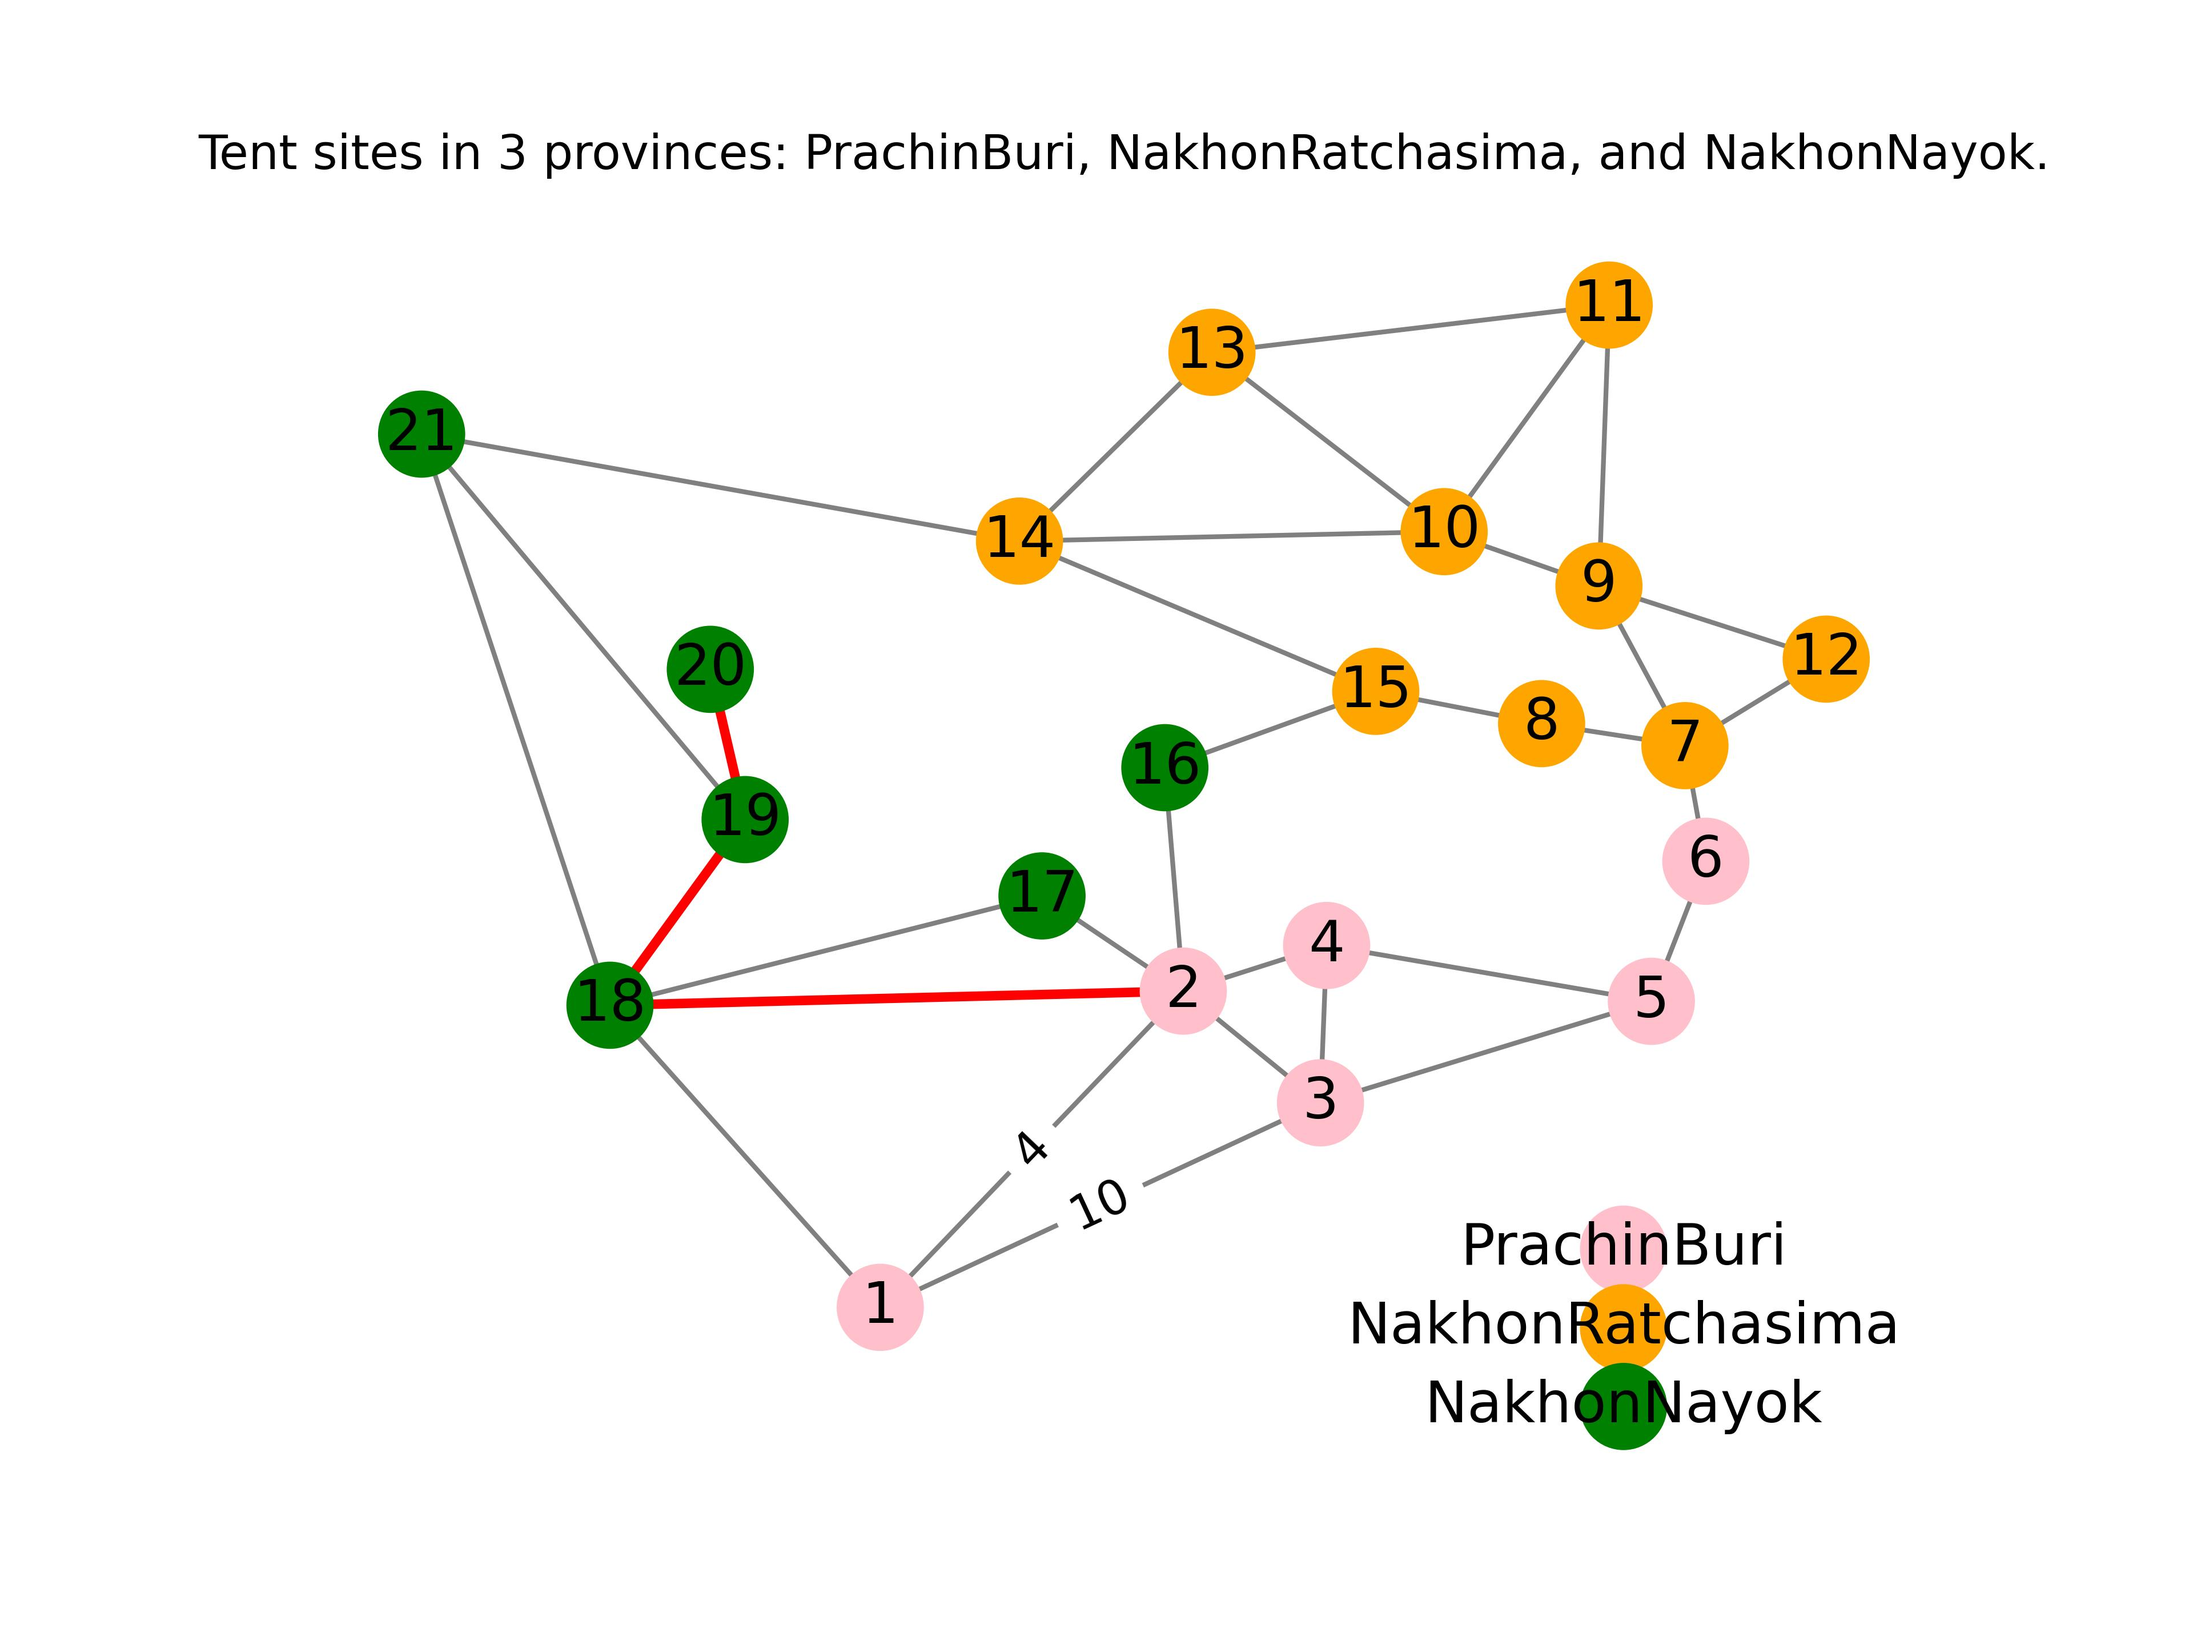
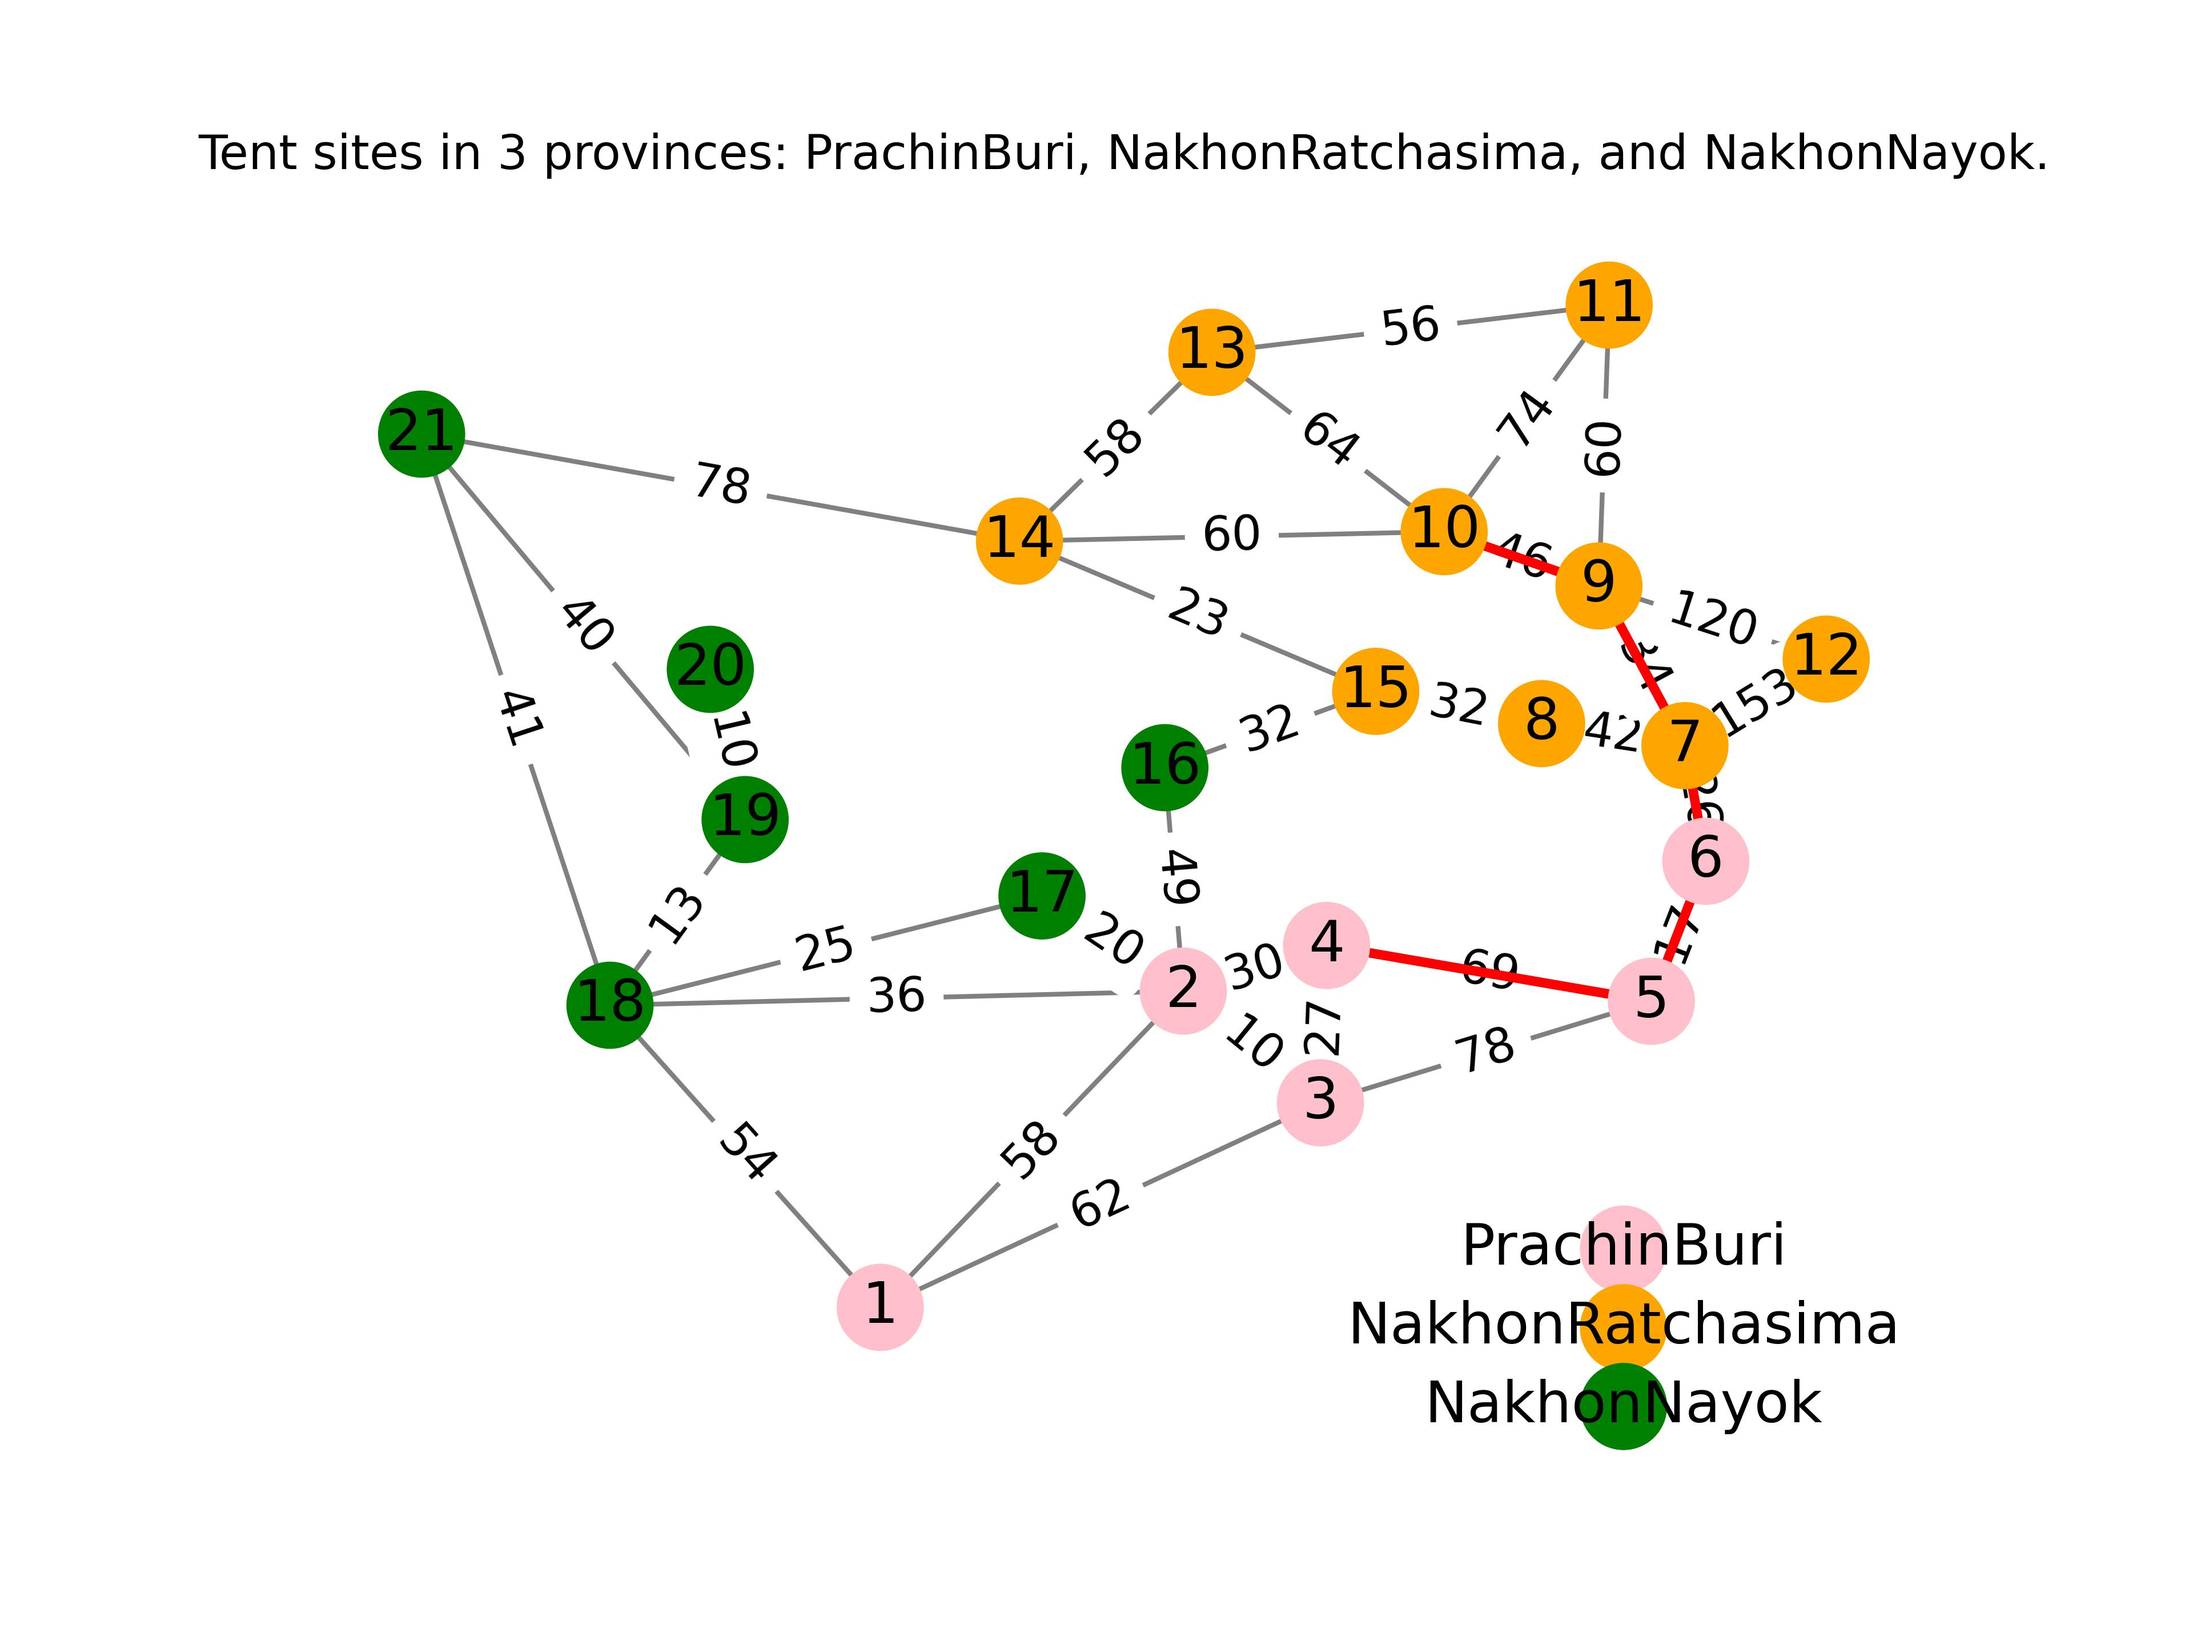
update

diff --git a/map.py b/map.py
@@ -34,14 +34,14 @@ G.add_node('NakhonRatchasima')
 G.add_node('NakhonNayok')
 
 # เพิ่ม edge ลงในกราฟ
-G.add_edge(1, 2, weight = 4)#, weight=4
-G.add_edge(1, 3, weight = 10)
-G.add_edge(1, 18)
+G.add_edge(1, 2, weight = 58)#, weight=4
+G.add_edge(1, 3, weight = 62)
+G.add_edge(1, 18, weight = 54)
 
 G.add_edge(2, 1)
-G.add_edge(2, 3)
+G.add_edge(2, 3, weight = 10)
 G.add_edge(2, 4)
-G.add_edge(2, 16)
+G.add_edge(2, 16, weight = 49)
 G.add_edge(2, 17)
 G.add_edge(2, 18)
 
@@ -50,74 +50,74 @@ G.add_edge(3, 2)
 G.add_edge(3, 4)
 G.add_edge(3, 5)
 
-G.add_edge(4, 2)
-G.add_edge(4, 3)
+G.add_edge(4, 2, weight = 30)
+G.add_edge(4, 3, weight = 27)
 G.add_edge(4, 5)
 
-G.add_edge(5, 3)
-G.add_edge(5, 4)
-G.add_edge(5, 6)
+G.add_edge(5, 3, weight = 78)
+G.add_edge(5, 4, weight = 69)
+G.add_edge(5, 6, weight = 17)
 
-G.add_edge(6, 7)
+G.add_edge(6, 7, weight = 26)
 
 G.add_edge(7, 8)
 G.add_edge(7, 9)
 G.add_edge(7, 12)
 
-G.add_edge(8, 7)
+G.add_edge(8, 7, weight = 42)
 G.add_edge(8, 15)
 
-G.add_edge(9, 7)
+G.add_edge(9, 7, weight = 34)
 G.add_edge(9, 10)
 G.add_edge(9, 11)
 G.add_edge(9, 12)
 
-G.add_edge(10, 9)
+G.add_edge(10, 9, weight = 46)
 G.add_edge(10, 11)
 G.add_edge(10, 13)
 G.add_edge(10, 14)
 
-G.add_edge(11, 9)
-G.add_edge(11, 10)
+G.add_edge(11, 9, weight = 60)
+G.add_edge(11, 10, weight = 74)
 G.add_edge(11, 13)
 
-G.add_edge(12, 7)
-G.add_edge(12, 9)
+G.add_edge(12, 7, weight = 153)
+G.add_edge(12, 9, weight = 120)
 
-G.add_edge(13, 10)
-G.add_edge(13, 11)
-G.add_edge(13, 14)
+G.add_edge(13, 10, weight = 64)
+G.add_edge(13, 11, weight = 56)
+G.add_edge(13, 14, weight = 58)
 
-G.add_edge(14, 10)
-G.add_edge(14, 13)
+G.add_edge(14, 10, weight = 60)
+G.add_edge(14, 13, weight = 58)
 G.add_edge(14, 15)
 G.add_edge(14, 21)
 
-G.add_edge(15, 8)
-G.add_edge(15, 14)
+G.add_edge(15, 8, weight = 32)
+G.add_edge(15, 14, weight = 23)
 G.add_edge(15, 16)
 
 G.add_edge(16, 2)
-G.add_edge(16, 15)
+G.add_edge(16, 15, weight = 32)
 
-G.add_edge(17, 2)
+G.add_edge(17, 2, weight = 20)
 G.add_edge(17, 18)
 
 G.add_edge(18, 1)
-G.add_edge(18, 2)
-G.add_edge(18, 17)
+G.add_edge(18, 2, weight = 36)
+G.add_edge(18, 17, weight = 25)
 G.add_edge(18, 19)
 G.add_edge(18, 21)
 
-G.add_edge(19, 18)
+G.add_edge(19, 18, weight = 13)
 G.add_edge(19, 20)
 G.add_edge(19, 21)
 
-G.add_edge(20, 19)
+G.add_edge(20, 19, weight = 10)
 
-G.add_edge(21, 14)
-G.add_edge(21, 18)
-G.add_edge(21, 19)
+G.add_edge(21, 14, weight = 78)
+G.add_edge(21, 18, weight = 41)
+G.add_edge(21, 19, weight = 40)
 
 # กำหนดสีของโหนด
 color_map = {1:'pink',
@@ -167,7 +167,7 @@ pos = {1: (-3.18, -3.74),
         9: (0.33, 5.43),
          10: (-0.426, 6.12),
           11: (0.38, 9),
-           12: (1.44, 4.50),
+           12: (1.8, 4.50),
             13: (-1.56, 8.4),
              14: (-2.5, 6),
               15: (-0.76, 4.09),
@@ -211,7 +211,7 @@ pos = {1: (-3.18, -3.74),
         9: (0.33, 5.43),
          10: (-0.426, 6.12),
           11: (0.38, 9),
-           12: (1.44, 4.50),
+           12: (1.8, 4.50),
             13: (-1.56, 8.4),
              14: (-2.5, 6),
               15: (-0.76, 4.09),
